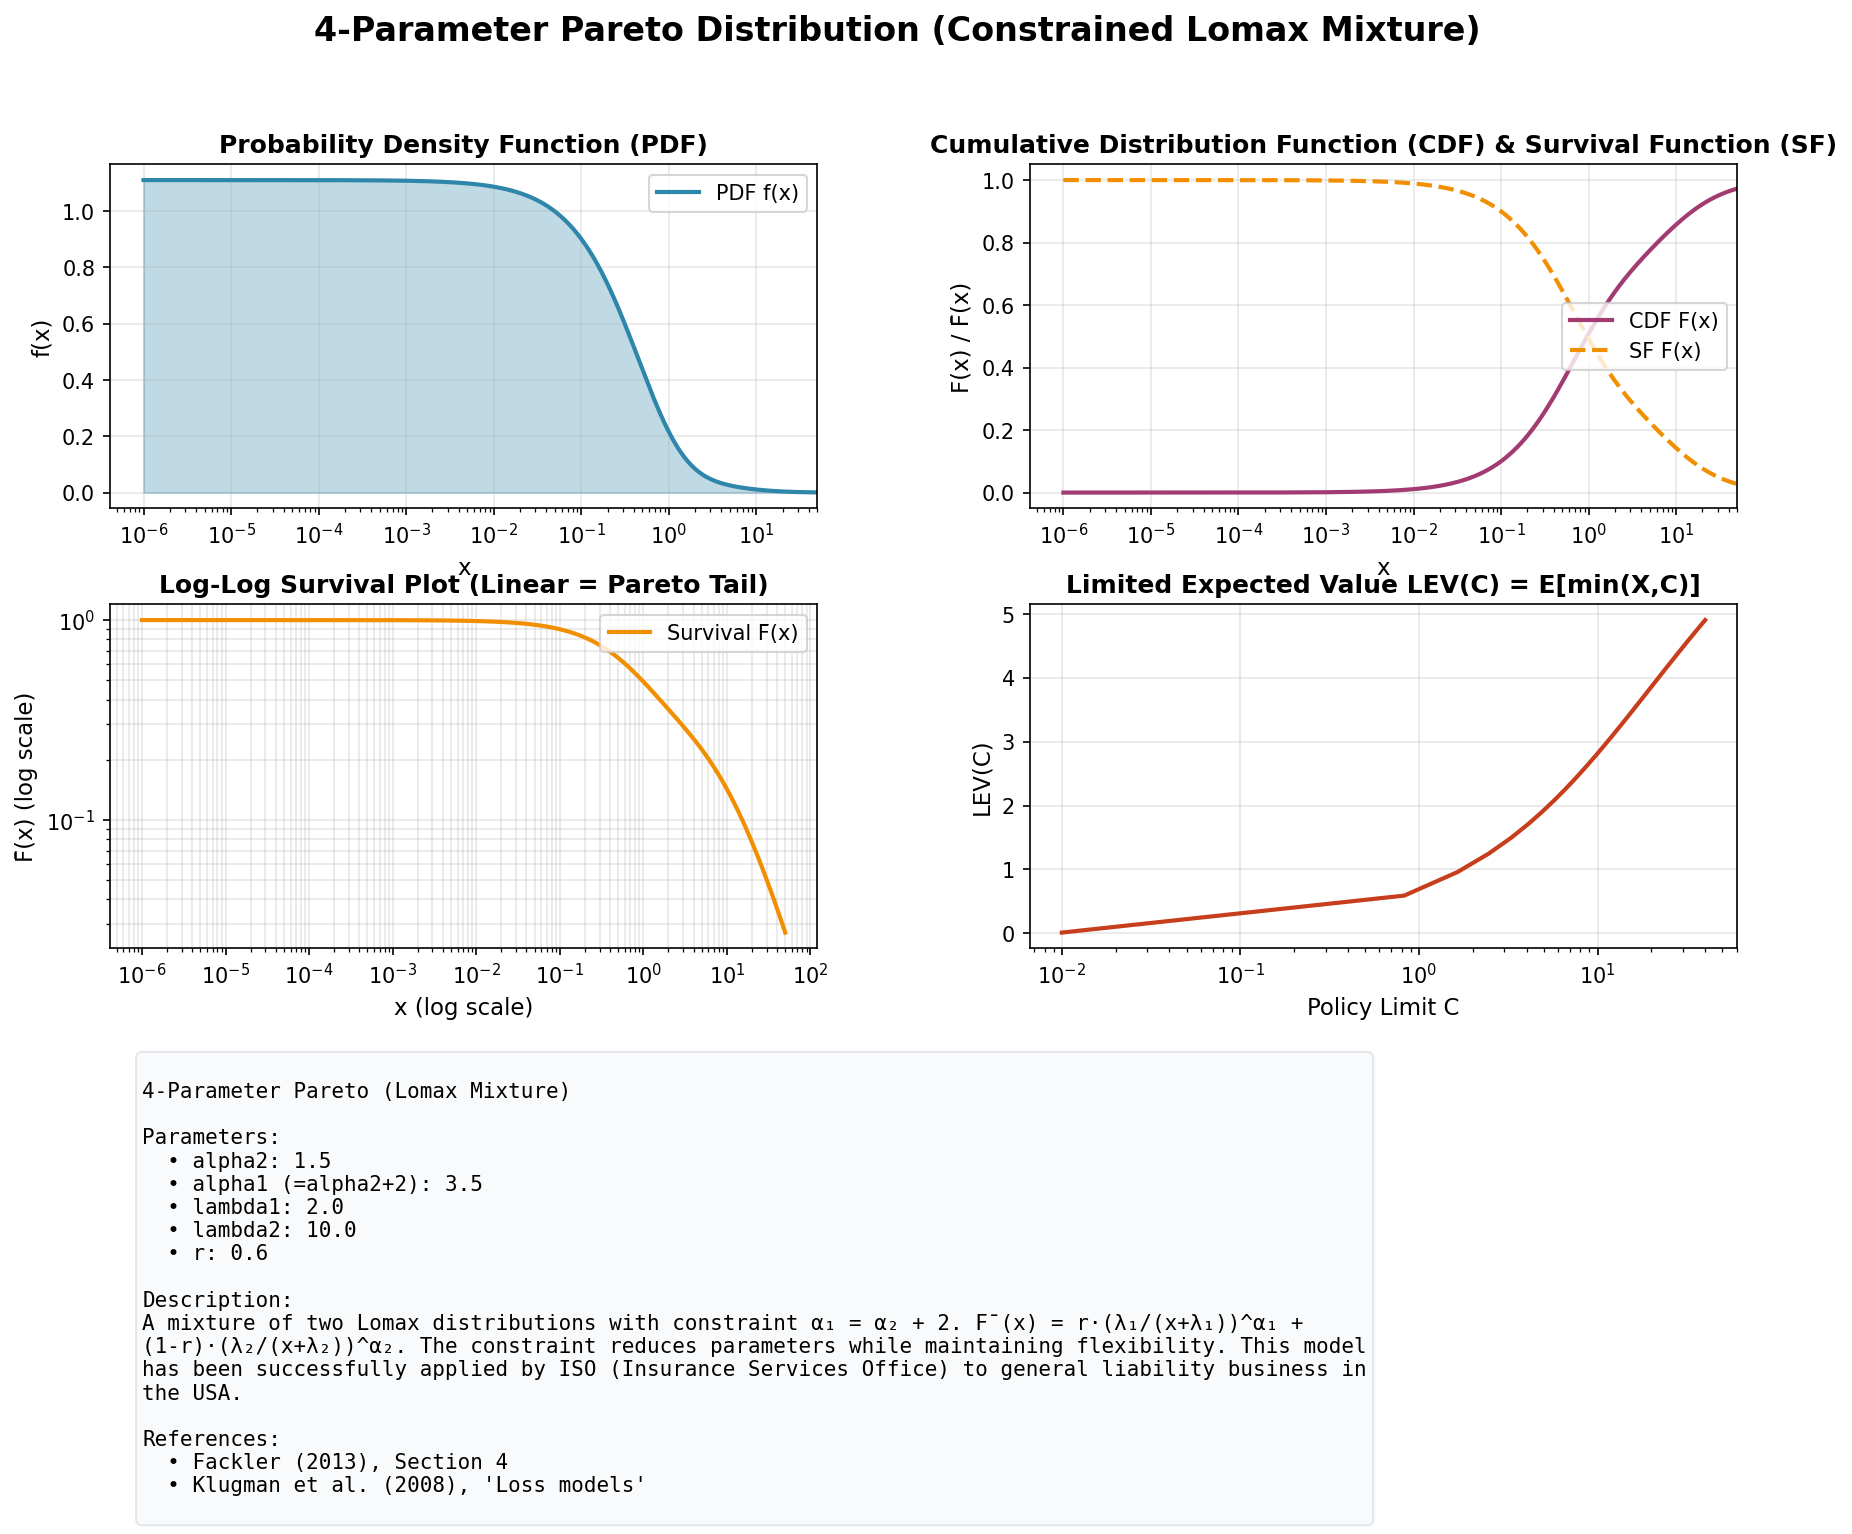
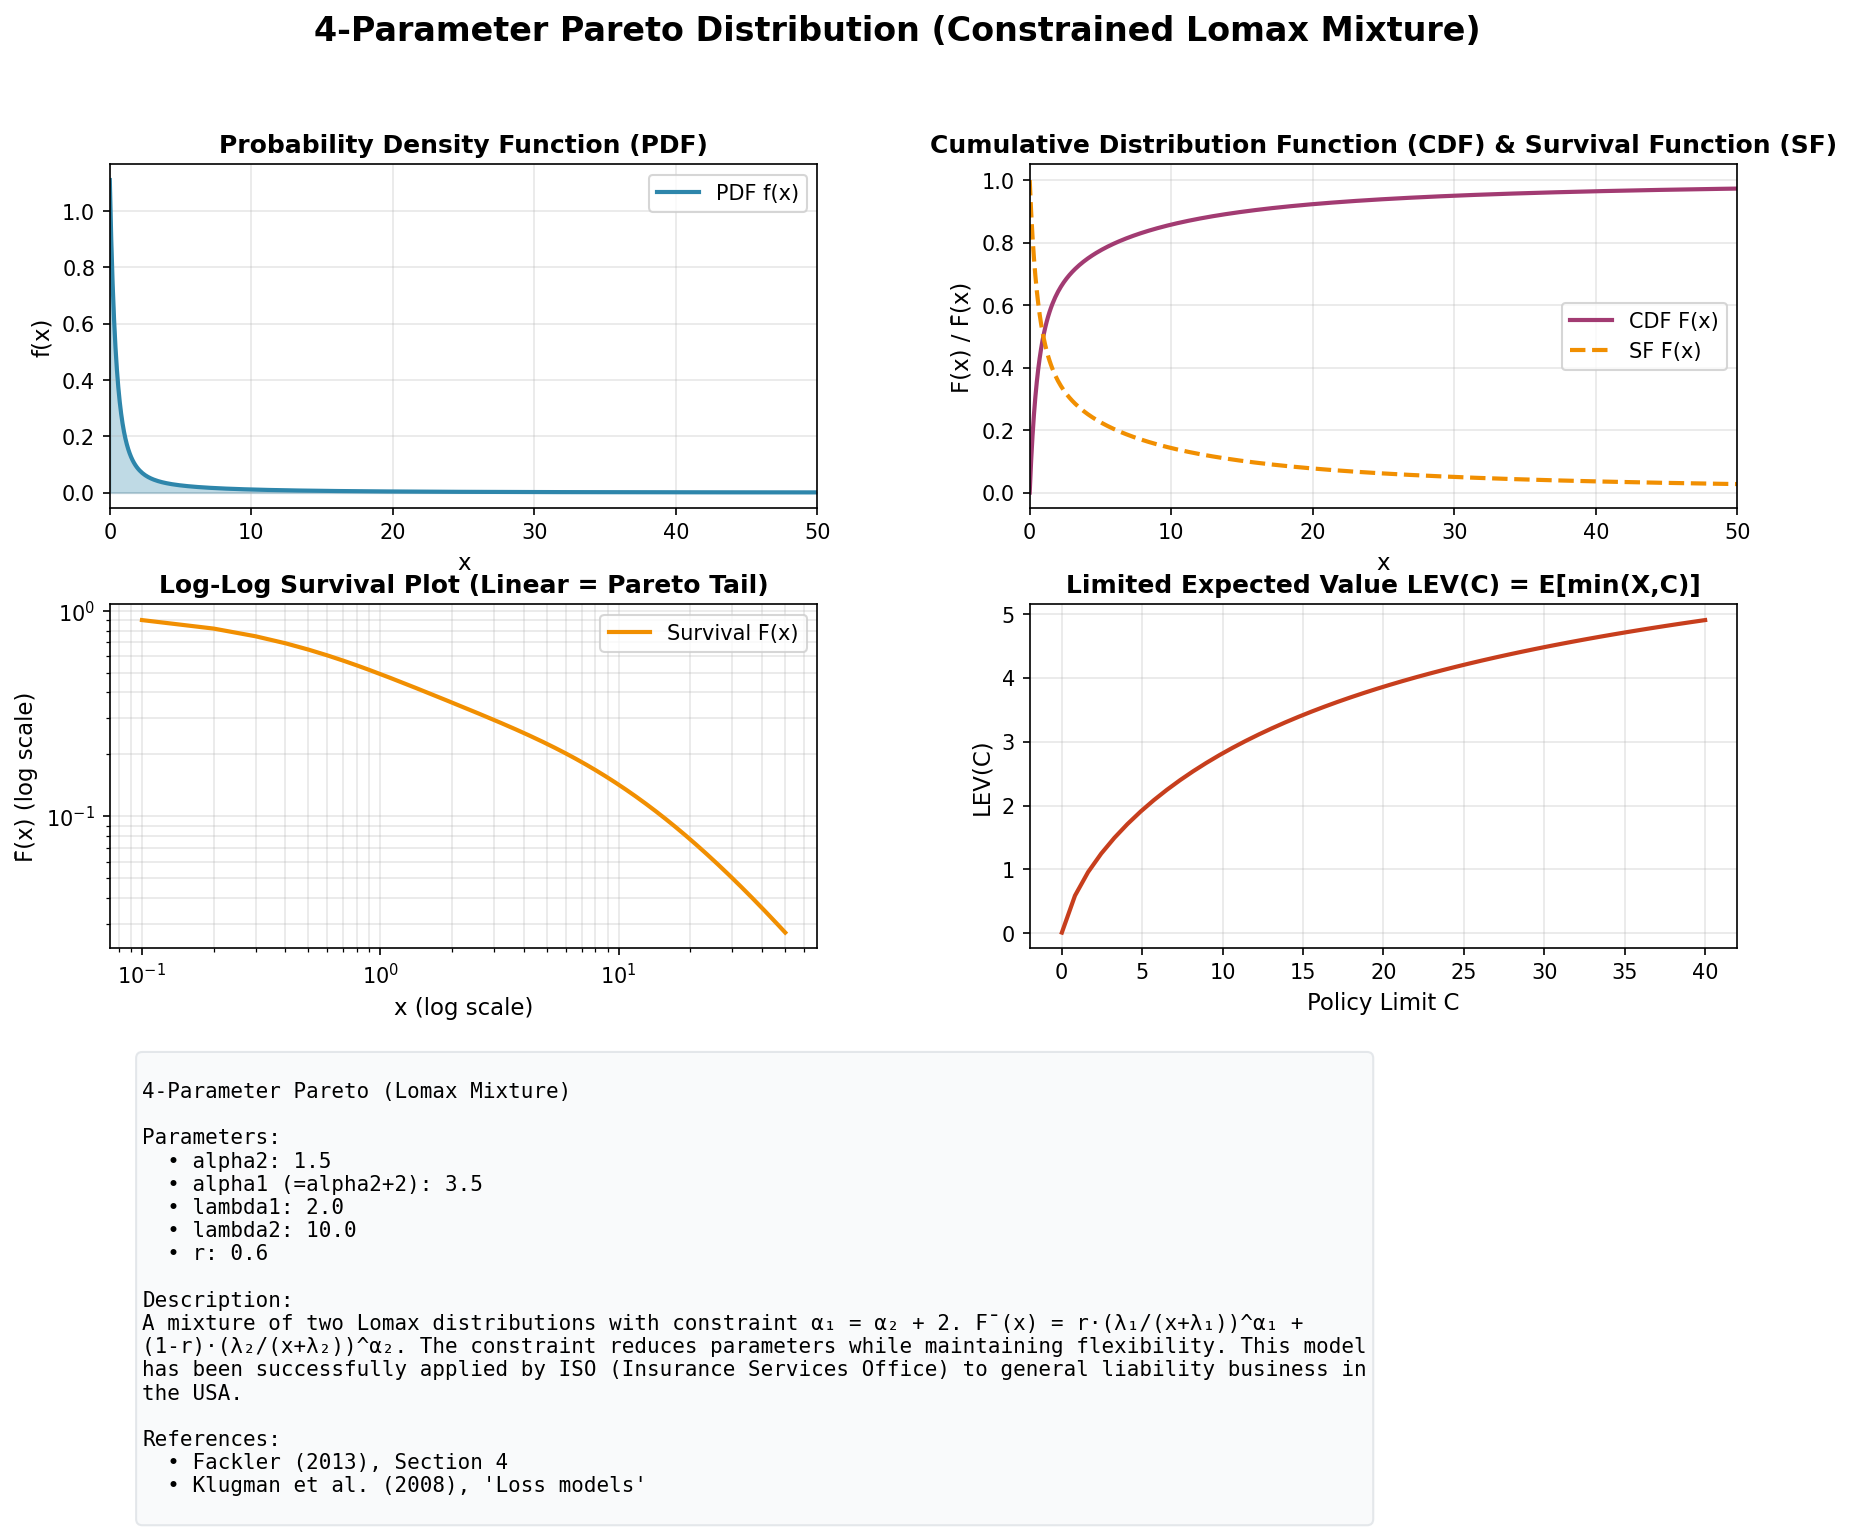
Fix 4 and 5 parameter Pareto plots - disable log x-axis
The log scale x-axis starting at 10^-6 made the PDF plots look wrong
visually (huge flat area near zero). Using linear x-axis now shows
the correct Lomax mixture shape.

diff --git a/test_fackler_distributions.py b/test_fackler_distributions.py
@@ -507,7 +507,7 @@ def test_four_parameter_pareto():
             "Klugman et al. (2008), 'Loss models'",
         ],
         filename="10_four_parameter_pareto.png",
-        log_scale_x=True,
+        log_scale_x=False,
     )
 
 
@@ -532,7 +532,7 @@ def test_five_parameter_pareto():
             "Fackler (2013), Section 4",
         ],
         filename="11_five_parameter_pareto.png",
-        log_scale_x=True,
+        log_scale_x=False,
     )
 
 
